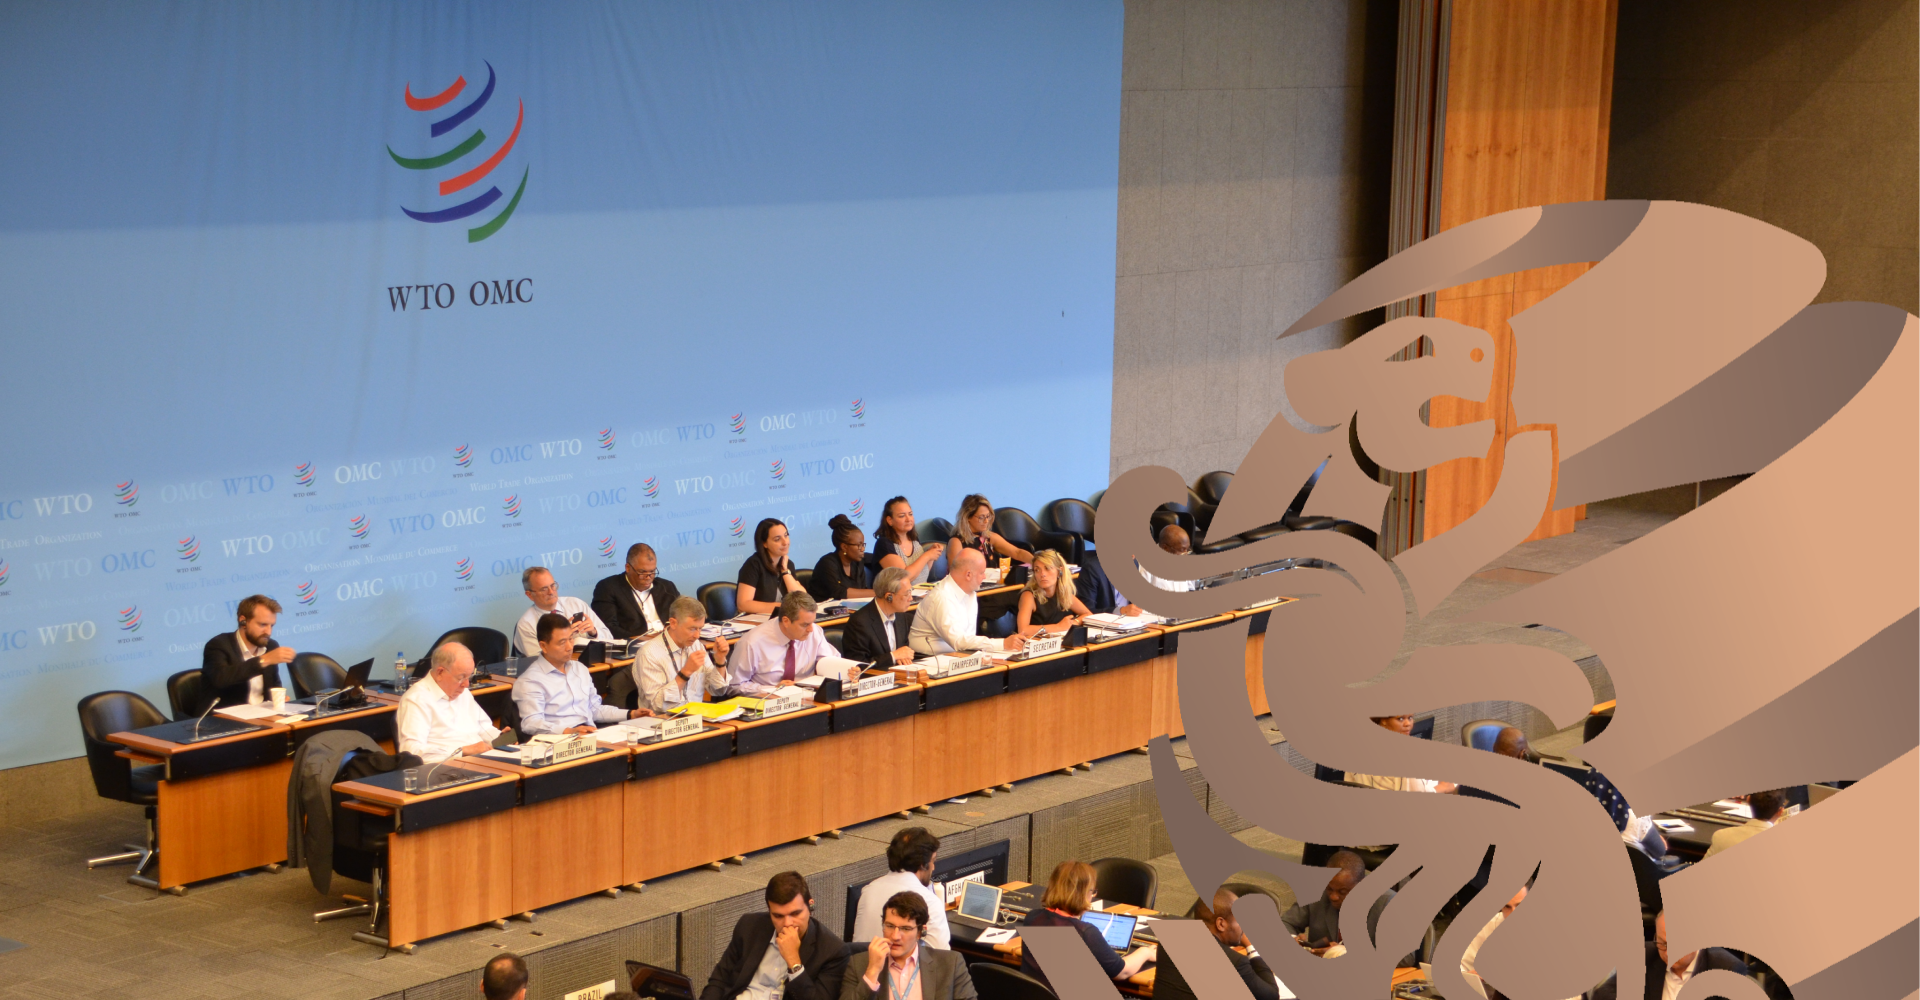
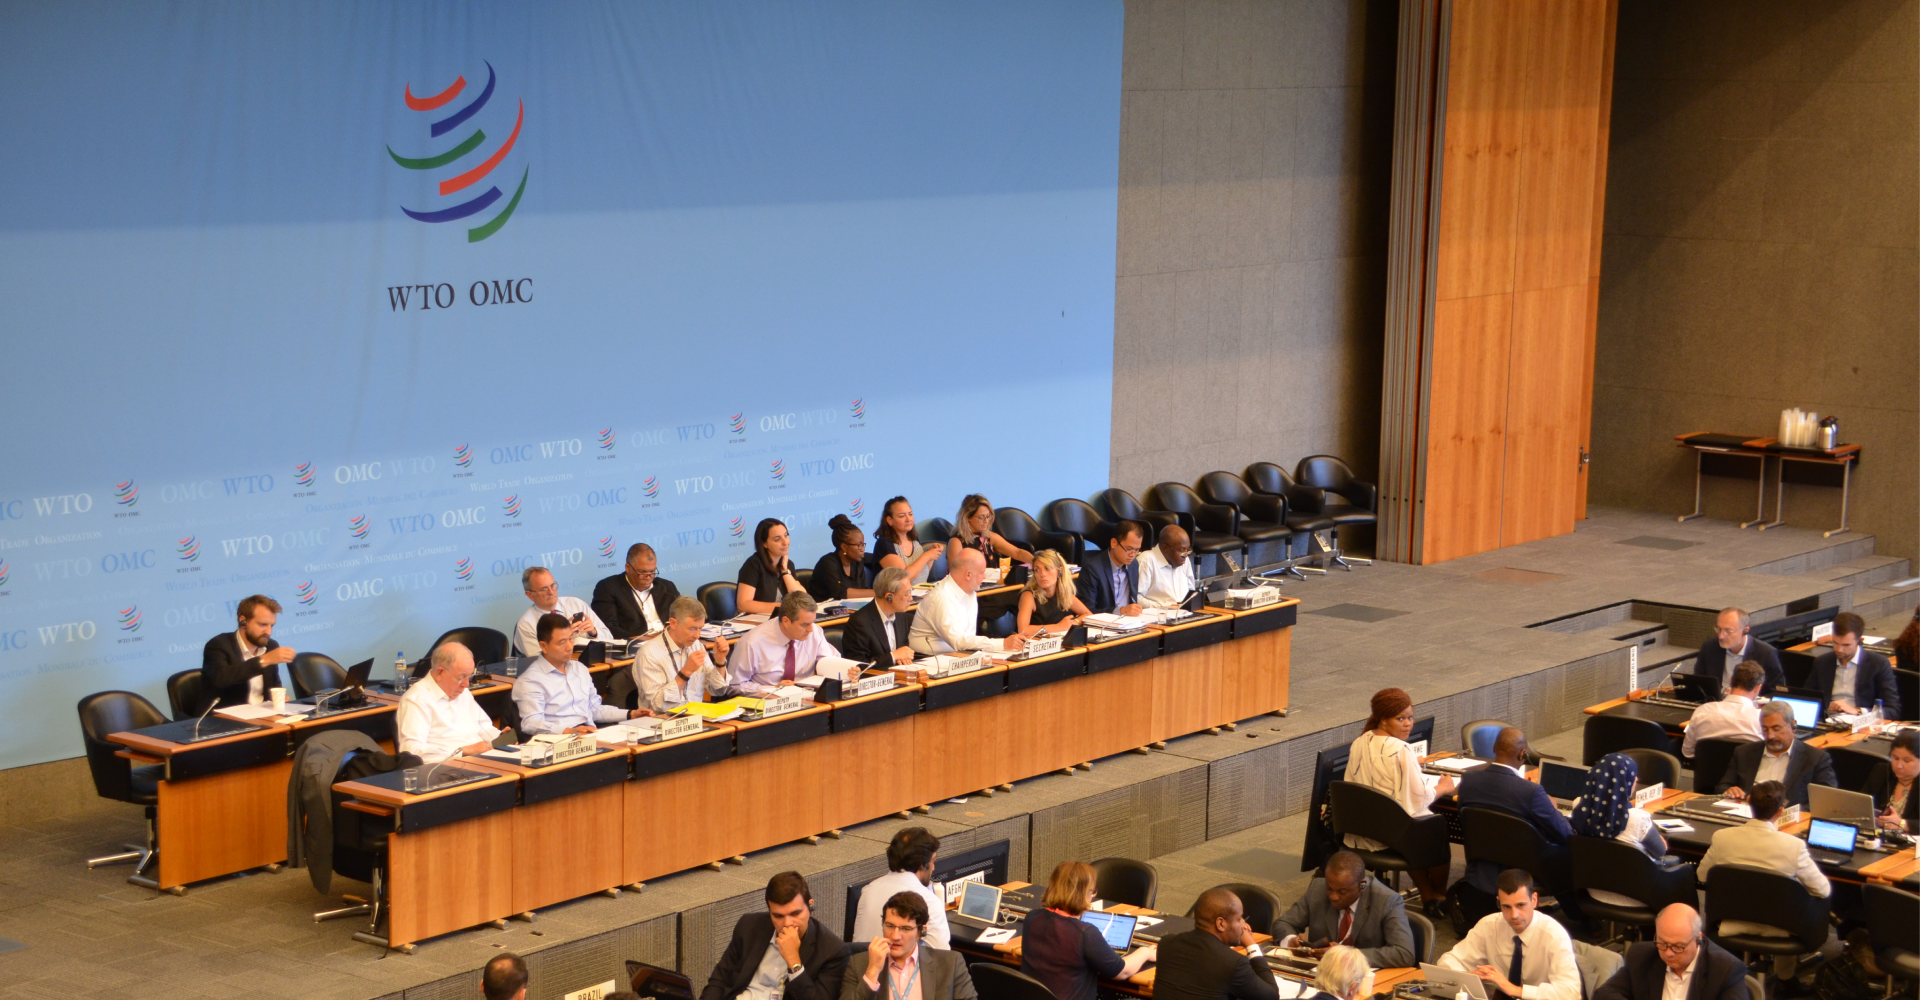
background reworked

Changed region(s): [[0.5312, 0.186, 1.0, 1.0]]

diff --git a/css/styles.css b/css/styles.css
@@ -26,10 +26,12 @@
 
 .main {
     height: 1000px;
-    background-image: linear-gradient(to bottom, rgba(26, 46, 58, 0.9), rgba(52, 91, 117, 0.9)),
+    background-image: 
+    url('../img/main_bg_logo.png'),
+    linear-gradient(to bottom, rgba(26, 46, 58, 0.95), rgba(52, 91, 117, 0.95)),
     url('../img/main_bg.png');
-    background-repeat: no-repeat;
-    background-size: cover;
+    background-repeat: no-repeat, repeat;
+    background-size: cover, cover;
     color: white;
 }
 
@@ -76,6 +78,7 @@
     font-size: 16px;
     font-family: 'Roboto Regular', sans-serif;
     margin-top: 25px;
+    text-align: justify;
 }
 
 .main_block_content_btn {
